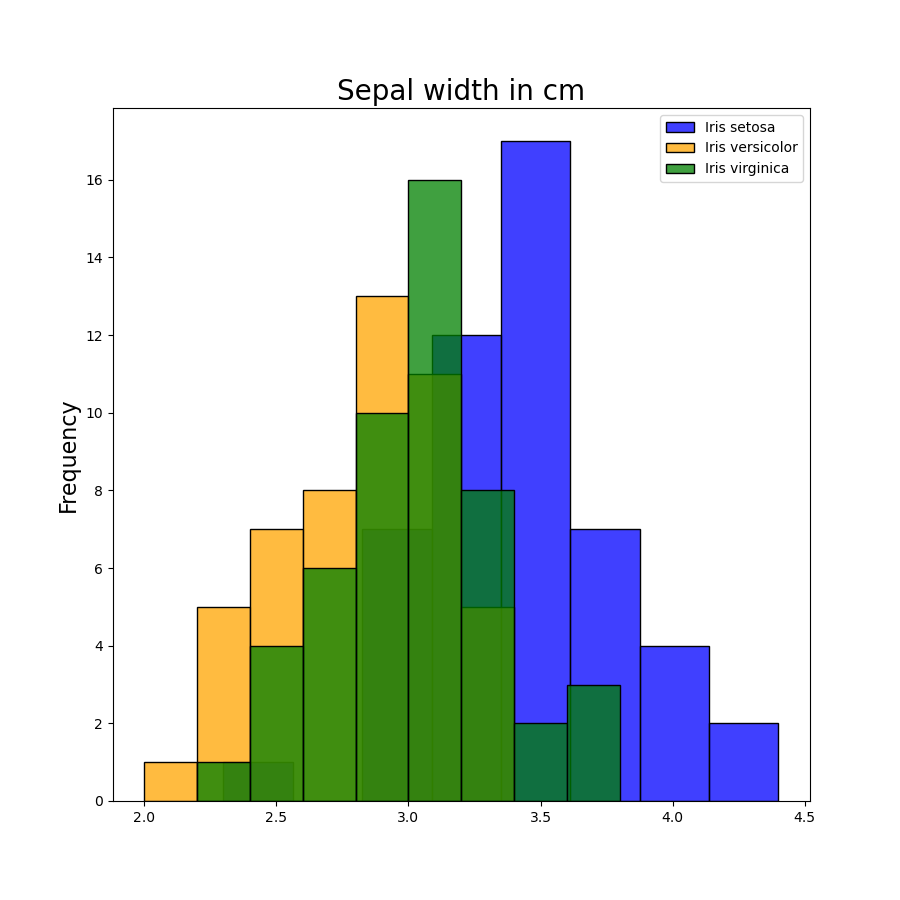
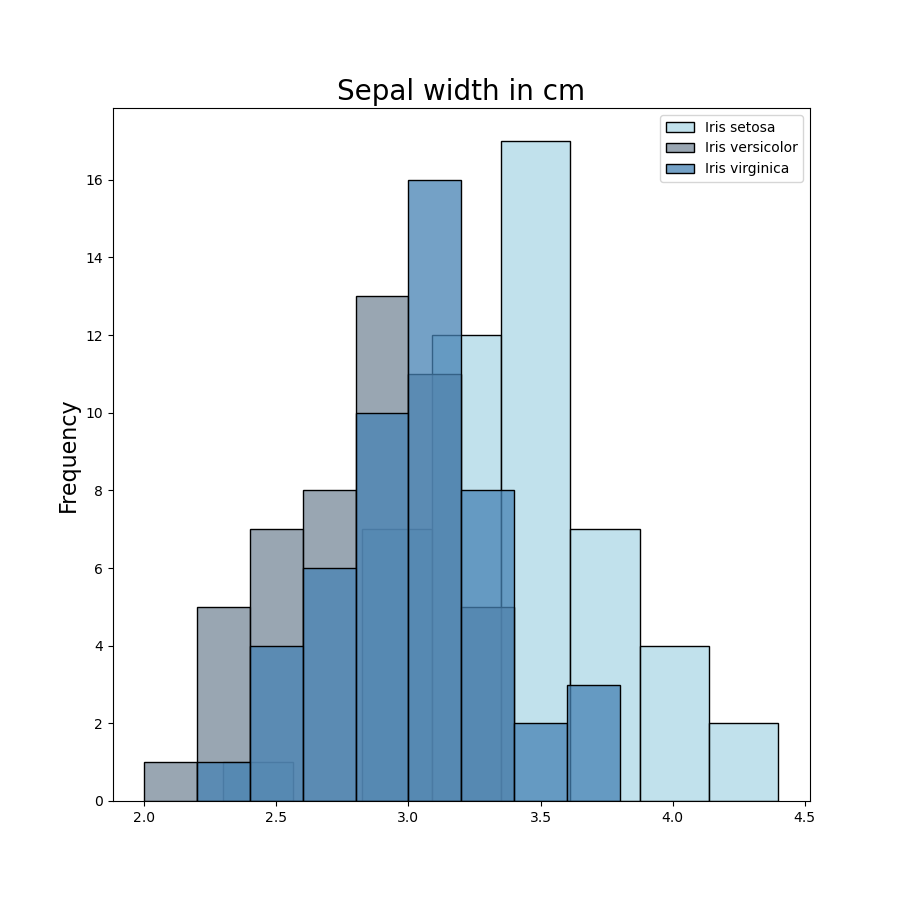
Change colours on histograms

Changed region(s): [[0.1556, 0.1556, 0.8711, 0.9022], [0.7467, 0.1244, 0.7778, 0.2178]]

diff --git a/analysis.py b/analysis.py
@@ -96,9 +96,10 @@ def sepal_length_hist():
     # https://stackoverflow.com/questions/332289/how-do-you-change-the-size-of-figures-drawn-with-matplotlib
     plt.figure(figsize = (9,9))
     # https://cmdlinetips.com/2019/02/how-to-make-histogram-in-python-with-pandas-and-seaborn/
-    sns.histplot(iris_s["SepalLengthCm"],  kde = False, label = "Iris setosa", color = "blue", )
-    sns.histplot(iris_vers["SepalLengthCm"],  kde = False, label = "Iris versicolor", color = "orange")
-    sns.histplot(iris_virg["SepalLengthCm"],  kde = False, label = "Iris virginica", color = "green")
+    # https://medium.com/swlh/how-to-create-a-seaborn-palette-that-highlights-maximum-value-f614aecd706b
+    sns.histplot(iris_s["SepalLengthCm"],  kde = False, label = "Iris setosa", color = "lightblue", )
+    sns.histplot(iris_vers["SepalLengthCm"],  kde = False, label = "Iris versicolor", color = "lightslategray")
+    sns.histplot(iris_virg["SepalLengthCm"],  kde = False, label = "Iris virginica", color = "steelblue")
     plt.title("Sepal length in cm", size = 20)
     plt.xlabel("")
     plt.ylabel("Frequency", size = 16)
@@ -109,9 +110,9 @@ def sepal_length_hist():
 # function for plotting a histogram for sepal width
 def sepal_width_hist():
     plt.figure(figsize = (9,9))
-    sns.histplot(iris_s["SepalWidthCm"],  kde = False, label = "Iris setosa", color = "blue")
-    sns.histplot(iris_vers["SepalWidthCm"],  kde=False, label = "Iris versicolor", color = "orange")
-    sns.histplot(iris_virg["SepalWidthCm"],  kde=False, label = "Iris virginica", color = "green")
+    sns.histplot(iris_s["SepalWidthCm"],  kde = False, label = "Iris setosa", color = "lightblue")
+    sns.histplot(iris_vers["SepalWidthCm"],  kde=False, label = "Iris versicolor", color = "lightslategray")
+    sns.histplot(iris_virg["SepalWidthCm"],  kde=False, label = "Iris virginica", color = "steelblue")
     plt.title("Sepal width in cm", size = 20)
     plt.xlabel("")
     plt.ylabel("Frequency", size = 16)
@@ -122,9 +123,9 @@ def sepal_width_hist():
 # function for plotting a histogram for petal length
 def petal_length_hist():
     plt.figure(figsize = (9,9))
-    sns.histplot(iris_s["PetalLengthCm"],  kde = False, label = "Iris setosa", color = "blue")
-    sns.histplot(iris_vers["PetalLengthCm"],  kde = False, label = "Iris versicolor", color = "orange")
-    sns.histplot(iris_virg["PetalLengthCm"],  kde = False, label = "Iris virginica", color = "green")
+    sns.histplot(iris_s["PetalLengthCm"],  kde = False, label = "Iris setosa", color = "lightblue")
+    sns.histplot(iris_vers["PetalLengthCm"],  kde = False, label = "Iris versicolor", color = "lightslategray")
+    sns.histplot(iris_virg["PetalLengthCm"],  kde = False, label = "Iris virginica", color = "steelblue")
     plt.title("Petal length in cm", size = 20)
     plt.xlabel("")
     plt.ylabel("Frequency", size = 16)
@@ -135,9 +136,9 @@ def petal_length_hist():
 # function for plotting a histogram for petal width
 def petal_width_hist():
     plt.figure(figsize = (9,9))
-    sns.histplot(iris_s["PetalWidthCm"],  kde = False, label = "Iris setosa", color = "blue")
-    sns.histplot(iris_vers["PetalWidthCm"],  kde = False, label = "Iris versicolor", color = "orange")
-    sns.histplot(iris_virg["PetalWidthCm"],  kde = False, label = "Iris virginica", color = "green")
+    sns.histplot(iris_s["PetalWidthCm"],  kde = False, label = "Iris setosa", color = "lightblue")
+    sns.histplot(iris_vers["PetalWidthCm"],  kde = False, label = "Iris versicolor", color = "lightslategray")
+    sns.histplot(iris_virg["PetalWidthCm"],  kde = False, label = "Iris virginica", color = "steelblue")
     plt.title("Petal width in cm", size = 20)
     plt.xlabel("")
     plt.ylabel("Frequency", size = 16)
@@ -150,8 +151,6 @@ def histograms():
     sepal_width_hist()
     petal_length_hist()
     petal_width_hist()
-
-
 
 # https://datagy.io/seaborn-pairplot/
 # https://www.javatpoint.com/pair-plot-in-python
@@ -192,6 +191,8 @@ def scatterplots():
     sepal_length_width_scat()
     petal_length_width_scat()
 
+# https://www.geeksforgeeks.org/box-plot-in-python-using-matplotlib/
+# https://www.python-graph-gallery.com/30-basic-boxplot-with-seaborn?utm_content=cmp-true
 def boxplots():
     sns.set(style="ticks", palette="pastel")
     f, axes = plt.subplots(2, 2, sharey=False, figsize=(12, 8))
